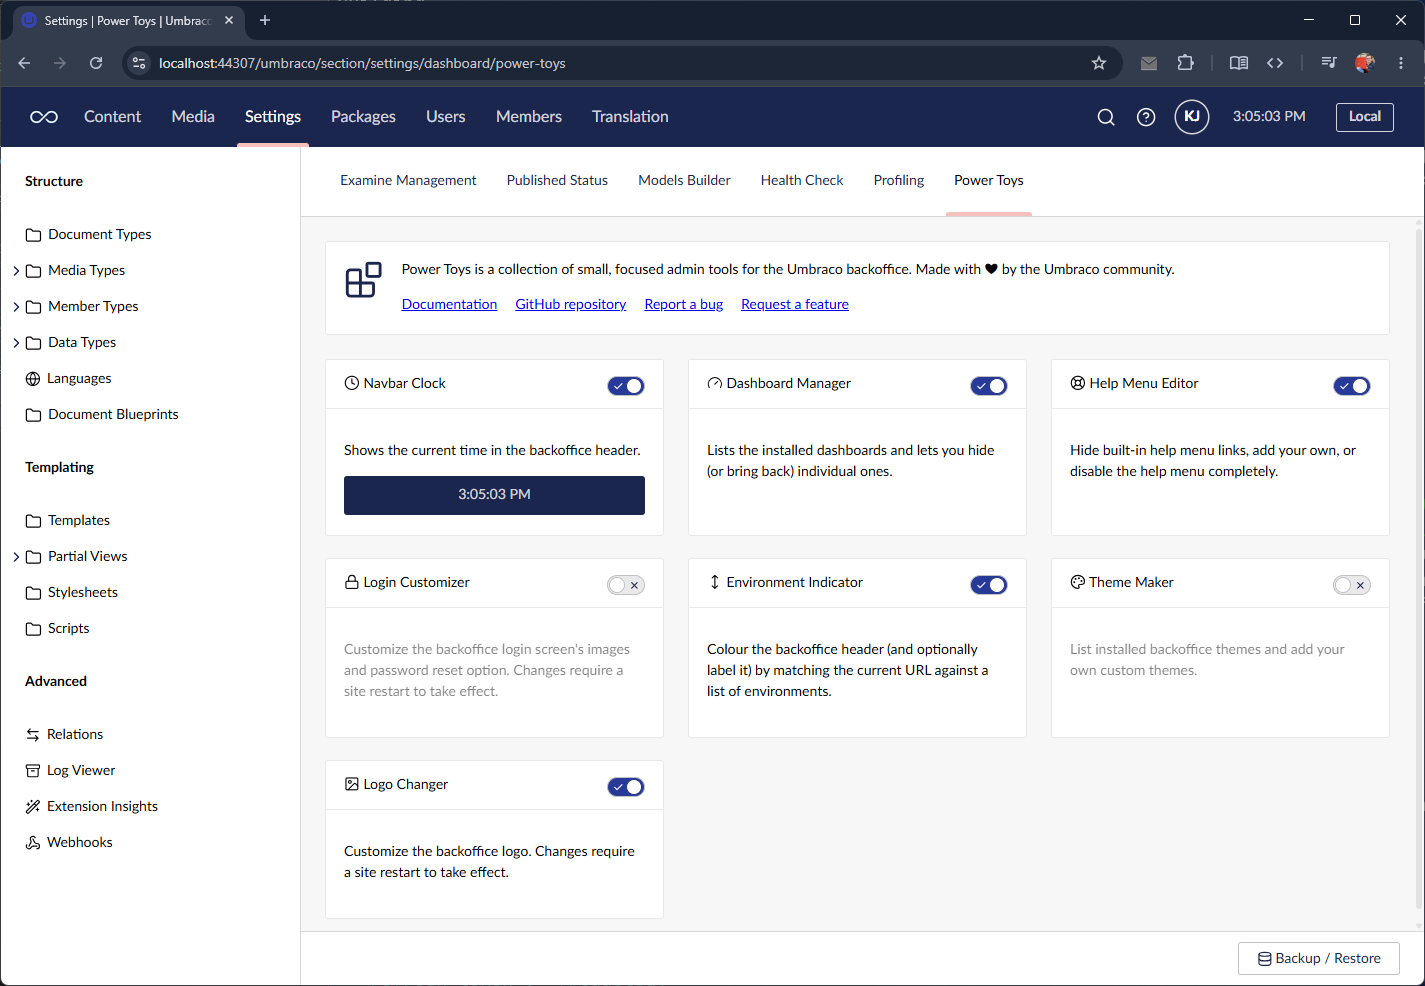
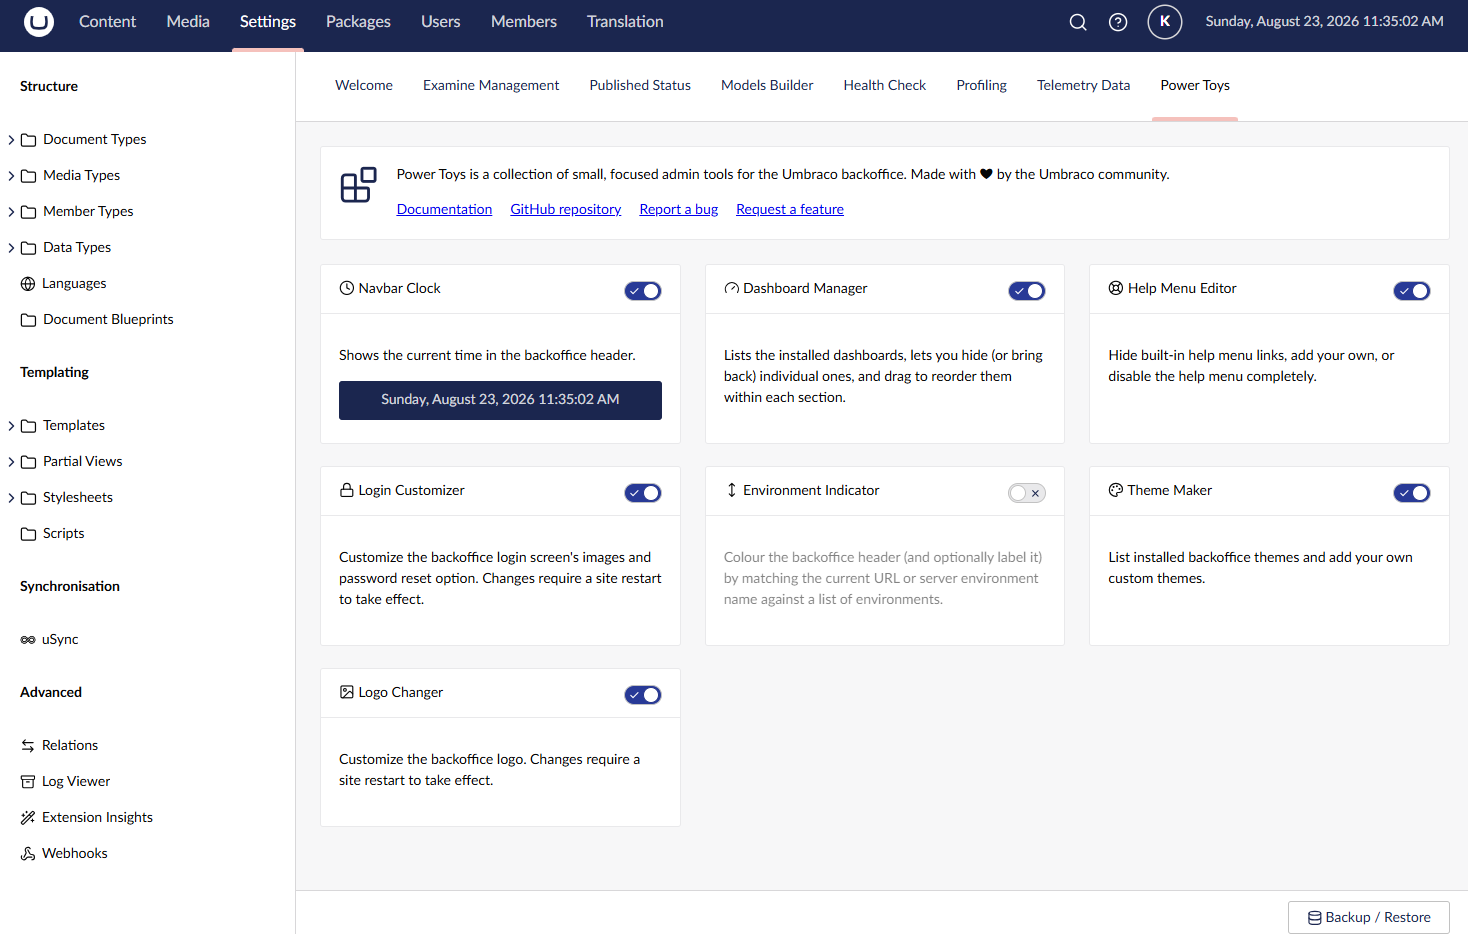
Add Jekyll docs site for GitHub Pages (#48)
* Add Jekyll docs site for GitHub Pages

Gives users somewhere to read install instructions and per-power-toy
docs instead of the empty GitHub wiki the marketplace listing links to.
Screenshot placeholders are left as TODOs pending real captures.

* Add real screenshots to the docs pages

Replace TODO placeholders with actual captures from the running site,
for every power toy except Login Customizer's login-screen shot which
is still pending.

* Add Login Customizer login-screen screenshot

Completes the screenshot set for every power toy page.

* Configure docs site for the powertoys.jumoo.co.uk custom domain

Adds the GitHub Pages CNAME file and points Jekyll's site url/baseurl
at the custom domain instead of the default github.io path.

diff --git a/docs/index.md b/docs/index.md
@@ -1,0 +1,35 @@
+---
+title: Power Toys for Umbraco
+layout: default
+---
+
+# Power Toys for Umbraco
+
+A dashboard in the Umbraco Settings section that collects small backoffice admin tools
+("power toys") in one place, each with its own on/off switch. Every tool registers itself
+against a `powerToy` backoffice extension type, so both this package and other packages can
+add tools to the same dashboard without touching Power Toys' own code.
+
+![The Power Toys dashboard in the Umbraco Settings section](screenshots/dashboard.png)
+
+## Getting started
+
+See the [Installation](install.html) page to add the package to your site.
+
+## Power toys
+
+- [Navbar Clock](power-toys/navbar-clock.html) - shows the current time in the backoffice header.
+- [Dashboard Manager](power-toys/dashboard-manager.html) - lists installed dashboards, lets you hide/reorder them.
+- [Login Customizer](power-toys/login-customizer.html) - customizes the backoffice login screen.
+- [Help Menu Editor](power-toys/help-menu-editor.html) - hides or adds links in the backoffice help menu.
+- [Environment Indicator](power-toys/environment-indicator.html) - colours the backoffice header by environment.
+- [Theme Maker](power-toys/theme-maker.html) - lists and adds custom backoffice themes.
+- [Logo Changer](power-toys/logo-changer.html) - customizes the backoffice logo.
+- [Backup/Restore](power-toys/backup-restore.html) - backs up and restores every power toy's settings.
+
+## Links
+
+- [NuGet package](https://www.nuget.org/packages/Umbraco.Community.PowerToys/)
+- [Source on GitHub](https://github.com/Jumoo/umbraco.community.powertoys)
+- [Report an issue](https://github.com/Jumoo/umbraco.community.powertoys/issues)
+- [Contributing guidelines](https://github.com/Jumoo/umbraco.community.powertoys/blob/v17/main/.github/CONTRIBUTING.md)

diff --git a/docs/install.md b/docs/install.md
@@ -1,0 +1,25 @@
+---
+title: Installation
+layout: default
+---
+
+# Installation
+
+Add the package to an existing Umbraco website (v17+) from NuGet:
+
+```bash
+dotnet add package Umbraco.Community.PowerToys
+```
+
+No configuration is required. A **Power Toys** dashboard appears under the Settings section on
+first load. It starts out empty; tools are added by other packages (or later versions of this
+one) registering a `powerToy` extension, at which point they show up on the dashboard
+automatically with an enable/disable toggle, as below with all of this package's built-in tools
+enabled. Each tool's settings (if it has any) are opened from its card on the dashboard.
+
+![The Power Toys dashboard under Settings, with all built-in tools enabled](screenshots/install.png)
+
+Some power toys - Login Customizer and Logo Changer - note that changes require a site restart
+to take effect; this is called out on their own pages.
+
+[Back to overview](index.html)

diff --git a/docs/power-toys/environment-indicator.md b/docs/power-toys/environment-indicator.md
@@ -1,0 +1,19 @@
+---
+title: Environment Indicator
+layout: default
+---
+
+# Environment Indicator
+
+Colour the backoffice header (and optionally label it) by matching the current URL or server
+environment name against a list of environments you configure - for example, colouring
+"staging" orange and "production" red so editors always know which site they're on.
+
+![The Environment Indicator settings modal, showing the list of configured environments](../screenshots/environment-modal.png)
+
+Open the tool's settings from its card on the Power Toys dashboard, and use "Add environment"
+to define a new match.
+
+![The coloured, labelled backoffice header on a matched environment](../screenshots/environment-header.png)
+
+[Back to overview](../index.html)

diff --git a/docs/power-toys/backup-restore.md b/docs/power-toys/backup-restore.md
@@ -1,0 +1,19 @@
+---
+title: Backup / Restore
+layout: default
+---
+
+# Backup / Restore
+
+Downloads every power toy's enabled flag and settings as one JSON file, or restores them from a
+file produced by that download.
+
+![The Backup / Restore dashboard, showing the Download backup and Restore backup sections](../screenshots/backup-restore-modal.png)
+
+Use **Download backup** to save the current settings for every power toy to a single JSON file.
+
+Use **Choose file** and **Restore backup** to load settings from a previously downloaded backup.
+Restoring overwrites the current enabled state and settings for every power toy and can't be
+undone, so you're asked to confirm before it happens.
+
+[Back to overview](../index.html)

diff --git a/docs/power-toys/dashboard-manager.md b/docs/power-toys/dashboard-manager.md
@@ -1,0 +1,18 @@
+---
+title: Dashboard Manager
+layout: default
+---
+
+# Dashboard Manager
+
+Lists the installed dashboards, lets you hide (or bring back) individual ones, and drag to
+reorder them within each section.
+
+![The Dashboard Manager modal listing dashboards with drag-and-drop ordering](../screenshots/dashboard-manager-drag-drop.png)
+
+Open the tool's settings from its card on the Power Toys dashboard. Ordering and visibility are
+tracked per section, so each Umbraco section (Content, Media, Settings, etc.) keeps its own
+custom dashboard order. A section only shows a "Reset order" option once you've actually
+changed its order away from the default.
+
+[Back to overview](../index.html)

diff --git a/docs/power-toys/theme-maker.md b/docs/power-toys/theme-maker.md
@@ -1,0 +1,19 @@
+---
+title: Theme Maker
+layout: default
+---
+
+# Theme Maker
+
+List installed backoffice themes and add your own custom themes.
+
+![The Theme Maker settings modal, listing installed themes](../screenshots/theme-maker-modal.png)
+
+Open the tool's settings from its card on the Power Toys dashboard, and use the editor to add or
+edit a custom theme's colours.
+
+![The theme colour editor sidebar](../screenshots/theme-maker-colour-editor.png)
+
+![The backoffice with a custom orange theme applied](../screenshots/theme-maker-orange-theme.png)
+
+[Back to overview](../index.html)

diff --git a/docs/power-toys/login-customizer.md b/docs/power-toys/login-customizer.md
@@ -1,0 +1,18 @@
+---
+title: Login Customizer
+layout: default
+---
+
+# Login Customizer
+
+Customize the backoffice login screen's images and password reset option.
+
+![The Login Customizer settings modal](../screenshots/login-customizer-modal.png)
+
+Open the tool's settings from its card on the Power Toys dashboard.
+
+**Changes require a site restart to take effect.**
+
+![A customized backoffice login screen, with a custom background image, logo, and greeting](../screenshots/login-screen.png)
+
+[Back to overview](../index.html)

diff --git a/docs/power-toys/help-menu-editor.md b/docs/power-toys/help-menu-editor.md
@@ -1,0 +1,17 @@
+---
+title: Help Menu Editor
+layout: default
+---
+
+# Help Menu Editor
+
+Hide built-in help menu links, add your own, or disable the help menu completely.
+
+![The Help Menu Editor settings modal](../screenshots/help-menu-modal.png)
+
+Open the tool's settings from its card on the Power Toys dashboard. Use "Add link" to add a
+custom entry to the backoffice help menu.
+
+![The resulting customized help menu in the backoffice header](../screenshots/help-menu-header.png)
+
+[Back to overview](../index.html)

diff --git a/docs/power-toys/navbar-clock.md b/docs/power-toys/navbar-clock.md
@@ -1,0 +1,17 @@
+---
+title: Navbar Clock
+layout: default
+---
+
+# Navbar Clock
+
+Shows the current time in the backoffice header.
+
+![The clock rendered in the backoffice header](../screenshots/navbar-clock-header.png)
+
+Enable the tool from its card on the Power Toys dashboard. Once enabled, the clock appears in
+the backoffice header for every user, and its settings can be adjusted from the same card.
+
+![The Navbar Clock settings modal](../screenshots/navbar-clock-settings.png)
+
+[Back to overview](../index.html)

diff --git a/docs/power-toys/logo-changer.md b/docs/power-toys/logo-changer.md
@@ -1,0 +1,18 @@
+---
+title: Logo Changer
+layout: default
+---
+
+# Logo Changer
+
+Customize the backoffice logo.
+
+![The Logo Changer settings modal](../screenshots/logo-changer-modal.png)
+
+Open the tool's settings from its card on the Power Toys dashboard.
+
+**Changes require a site restart to take effect.**
+
+![The backoffice header showing the custom logo](../screenshots/logo-changer-header.png)
+
+[Back to overview](../index.html)
